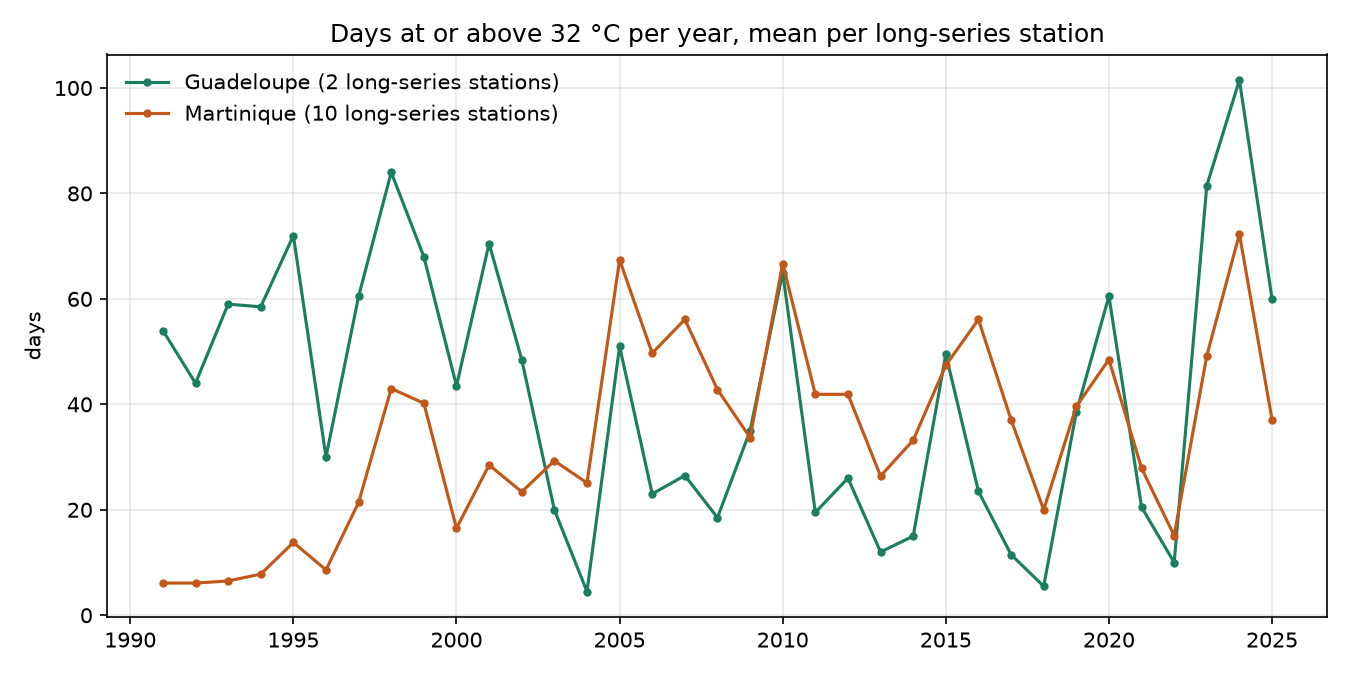
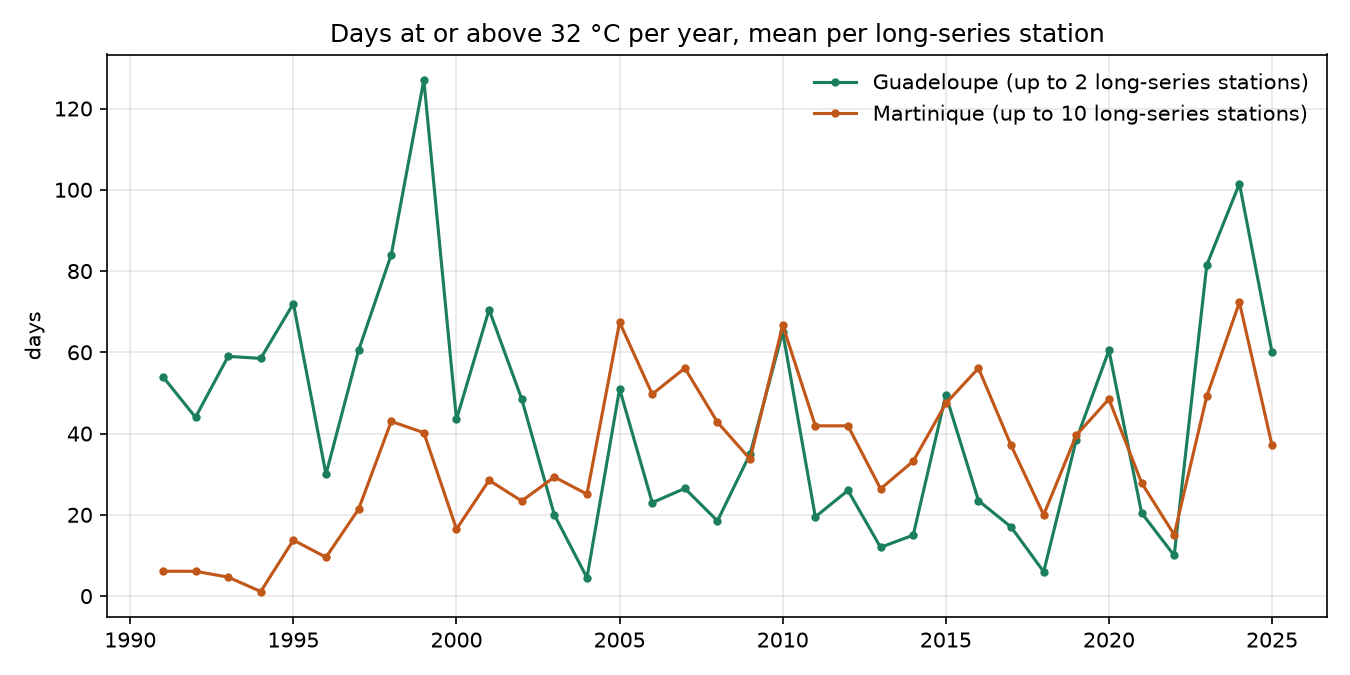
Count a station-year only when it is measured, and say what each figure is
- A panel station needed 80 % of the days of each decade, so it could miss
  most of a year; its few hot days then counted as a whole year. A
  station-year now counts only when 80 % of its days are measured, and
  gold_extremes reports how many stations each figure is the mean of.
- README: an unchanged republication rewrites no row (the MERGE still
  commits); the anomaly curve is a mean over the stations measured each
  year, not over the panel.
- CLAUDE.md no longer names the workspace.

diff --git a/src/antilles_lakehouse/gold.py b/src/antilles_lakehouse/gold.py
@@ -57,6 +57,8 @@ def _monthly(clean: DataFrame) -> DataFrame:
         func.sum("rr_mm").alias("rr_sum"),
         func.count(func.when(func.col("tx_c") >= VERY_HOT_C, 1)).alias("very_hot_days"),
         func.count(func.when(func.col("rr_mm") >= HEAVY_RAIN_MM, 1)).alias("heavy_rain_days"),
+        func.count("tx_c").alias("tx_days"),
+        func.count("rr_mm").alias("rr_days"),
         (func.count("tx_c") >= COMPLETE * days_in_month).alias("tx_complete"),
         (func.count("rr_mm") >= COMPLETE * days_in_month).alias("rr_complete"),
     )
@@ -120,13 +122,22 @@ def _extremes(clean: DataFrame, monthly: DataFrame, last_year: int) -> DataFrame
     yearly = monthly.groupBy("station_id", "territory", "year").agg(
         func.sum("very_hot_days").alias("very_hot_days"),
         func.sum("heavy_rain_days").alias("heavy_rain_days"),
+        func.sum("tx_days").alias("tx_days"),
+        func.sum("rr_days").alias("rr_days"),
     )
+    days_in_year = func.dayofyear(func.make_date(func.col("year"), func.lit(12), func.lit(31)))
     frames = []
-    for indicator, value in (("very_hot_days", "tx_c"), ("heavy_rain_days", "rr_mm")):
+    for indicator, value, measured in (
+        ("very_hot_days", "tx_c", "tx_days"),
+        ("heavy_rain_days", "rr_mm", "rr_days"),
+    ):
         panel = _panel(clean, value, last_year)
+        # A panel station counts in a year only if that year is itself 80 % measured:
+        # a station with three months of data would otherwise weigh as a whole year.
         frames.append(
             yearly.join(panel, ["station_id", "territory"])
             .filter(func.col("year").between(NORMAL_FROM, last_year))
+            .filter(func.col(measured) >= COMPLETE * days_in_year)
             .groupBy("territory", "year")
             .agg(
                 func.count("*").alias("panel_size"),

diff --git a/tests/test_gold.py b/tests/test_gold.py
@@ -117,6 +117,24 @@ def test_station_opening_late_is_not_in_the_panel(spark: SparkSession) -> None:
     assert row.mean_per_station == 0.0  # the long-series station never reaches 32 °C
 
 
+def test_a_partial_year_does_not_count_as_a_year(spark: SparkSession) -> None:
+    """Both stations are in the panel (80 % of days in every decade), but the first one has
+    only three months of 2025: its few days must not count as a whole year."""
+    build(
+        spark,
+        "g_partial",
+        days(spark, "97101014", "1991-01-01", "2025-03-31", tx=29.0),
+        days(spark, "97110001", "1991-01-01", "2025-12-31", tx=33.0),
+    )
+    (row,) = (
+        spark.table("g_partial_gold_extremes")
+        .filter("territory = 'Guadeloupe' AND indicator = 'very_hot_days' AND year = 2025")
+        .collect()
+    )
+    assert row.panel_size == 1
+    assert row.mean_per_station == 365.0
+
+
 def test_records_keep_the_date(spark: SparkSession) -> None:
     build(
         spark,

diff --git a/scripts/charts.py b/scripts/charts.py
@@ -36,7 +36,7 @@ def very_hot_days(spark: SparkSession, out: Path) -> None:
             color=colour,
             marker="o",
             markersize=3,
-            label=f"{territory} ({panel} long-series stations)",
+            label=f"{territory} (up to {panel} long-series stations)",
         )
     ax.set_title("Days at or above 32 °C per year, mean per long-series station")
     ax.set_ylabel("days")

diff --git a/README.md b/README.md
@@ -10,7 +10,9 @@ Unity Catalog.
 
 Both islands warm together: the yearly mean departure of the daily maximum from its
 1991-2020 normal goes from about −1 °C in the 1950s-1970s to +1.2 °C in 2024, the warmest
-year of the series.
+year of the series. Each station is compared with its own normal, then the yearly value is
+the mean over the stations measured that year; the network changes over the decades, which
+comparing each station with itself limits but does not remove.
 
 ![Days at or above 32 °C per year, mean per long-series station](docs/images/very_hot_days.png)
 
@@ -61,16 +63,19 @@ uses the rain, temperature and wind files ("RR-T-Vent") of departments 971 and 9
   copy per file: the same bytes are skipped, a changed file replaces its own rows, and
   Delta's history keeps the replaced copies. Silver keeps, per station and day, the row of
   the most recently modified file and merges it: a row is rewritten only when a value or a
-  quality code changed, so a correction flows through and an unchanged republication writes
-  nothing. The tests check both through Delta's operation metrics.
+  quality code changed, so a correction rewrites that one row and an unchanged
+  republication rewrites none (the tests check both through Delta's operation metrics).
+  Gold is small and rebuilt on every run.
 - **Territories.** The 971 files also cover Saint-Barthélemy and Saint-Martin, over 200 km
   north of Guadeloupe; each station gets its territory from the commune code in its id.
 - **A changing station network.** Stations open and close over the decades; summing them
   would show a trend made by the network. Every indicator is computed per station, and a
   territory's figure is the mean over a fixed panel of long-series stations: 80 % of days
-  present in every decade from 1991 to the last complete year. Few stations have such a
-  temperature series: the panel is 2 stations in Guadeloupe and 10 in Martinique for hot
-  days, 18 and 21 for heavy rain. `gold_extremes` stores the panel size with each figure.
+  present in every decade from 1991 to the last complete year. A panel station counts in a
+  given year only if that year is itself 80 % measured, so a year with three months of
+  data does not pass for a calm year. Few stations have such a temperature series: up to 2
+  stations in Guadeloupe and 10 in Martinique for hot days, 18 and 21 for heavy rain.
+  `gold_extremes` stores, with each figure, how many stations it is the mean of.
 - **Quality.** Doubtful values stay in silver with their code but never reach gold;
   physically impossible ones (outside −10…50 °C, 0…1500 mm, 0…100 m/s) become null.
 - **Thresholds.** A very hot day reaches 32 °C; a heavy-rain day, 50 mm. The normal is the

diff --git a/CLAUDE.md b/CLAUDE.md
@@ -22,7 +22,7 @@ matter more than feature count. Every change should be something a recruiter can
     for run-local so separate steps see the same tables)
 - Databricks Asset Bundle (`databricks.yml`, `resources/climate_job.yml`): serverless job
   `antilles-climate`, tasks ingest → bronze → silver → gold, schedule paused. Workspace:
-  Databricks Free Edition, CLI profile `dbc-b0e23669-7e9a`. PySpark is a `local` extra:
+  Databricks Free Edition, CLI profile created by `databricks auth login`. PySpark is a `local` extra:
   never a dependency of the wheel (it would replace the serverless Spark).
 - `scripts/charts.py`: README charts from the local gold tables.
 - PySpark 4.0 + delta-spark 4.0, the versions of Databricks serverless environment 4
